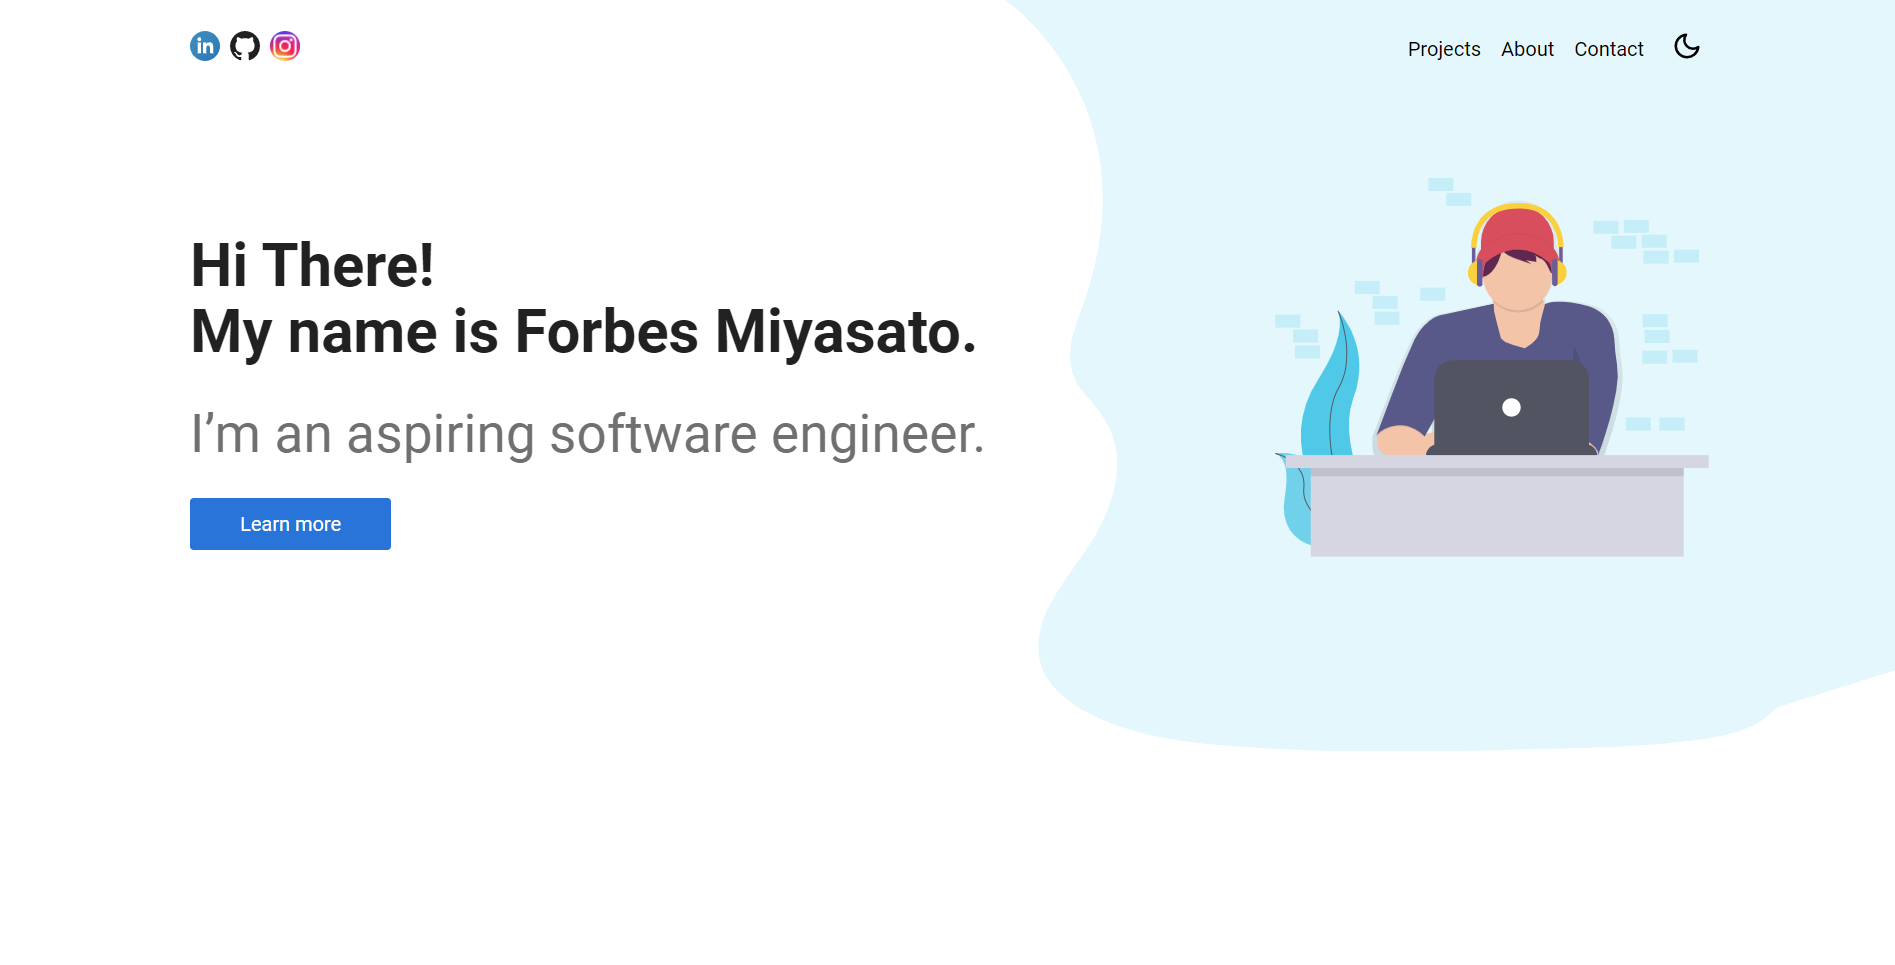
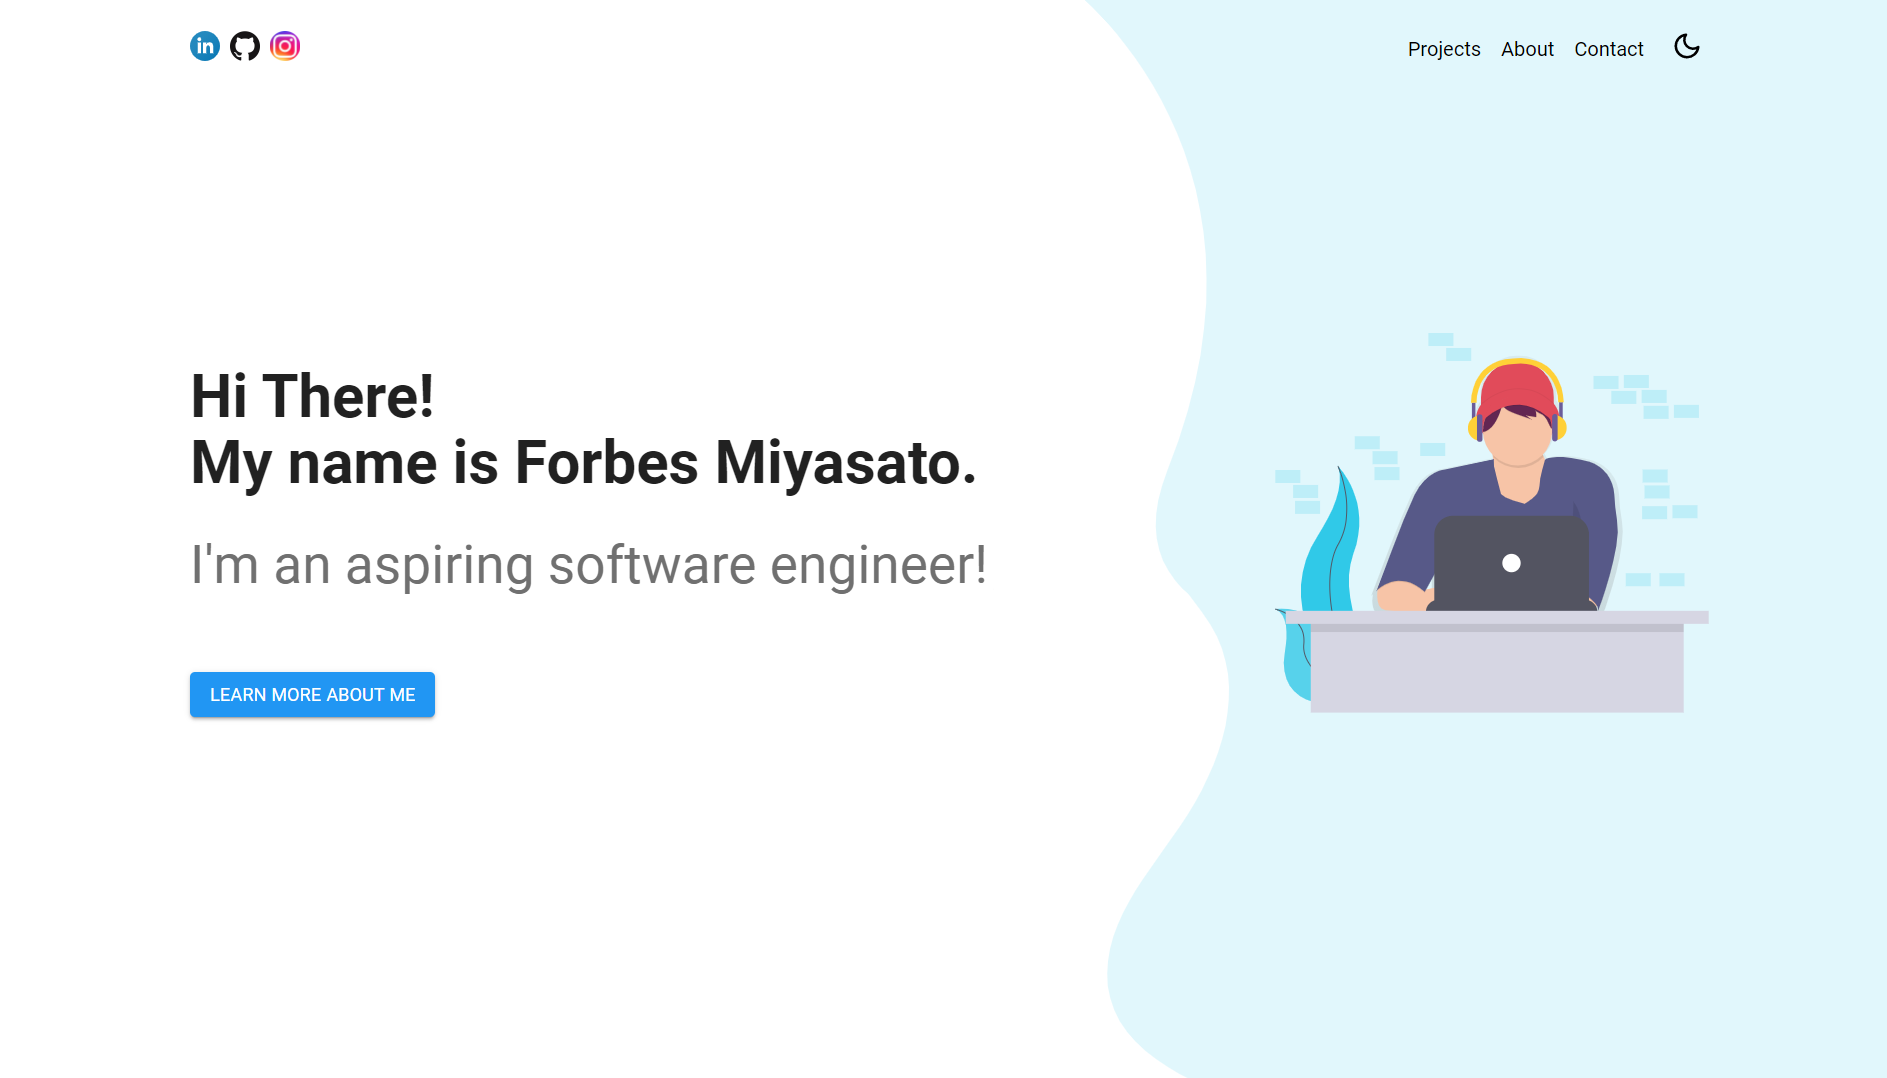
changed thumbnail and make small tweaks

diff --git a/src/components/landing/Contact/section.js b/src/components/landing/Contact/section.js
@@ -1,19 +1,14 @@
-import React, { useContext } from "react";
-import { Container } from "components/common";
-import contact from "assets/illustrations/contact.svg";
+import React, { useContext, useState } from "react";
 import { ThemeContext } from "providers/ThemeProvider";
-import { Wrapper, Details, Thumbnail } from "./styles";
 import { FontAwesomeIcon } from "@fortawesome/react-fontawesome";
 import { faEnvelope } from "@fortawesome/free-solid-svg-icons";
 import social from "../../social.json";
-import InsightFloatIn from "../../common/InsightFloatIn";
 import { Trail, animated } from "react-spring/renderprops";
 import VizSensor from "react-visibility-sensor";
-import GITSectionfrom from "./section";
-import "./contact.scss";
 
-export const Contact = () => {
+const GITSection = () => {
     const { theme } = useContext(ThemeContext);
+    const [open, set] = useState(false);
 
     const items = [
         <div className="contact-icon">
@@ -52,15 +47,33 @@ export const Contact = () => {
     ];
 
     return (
-        <InsightFloatIn topOffSet={200} translateY={50}>
-            <Wrapper as={Container} id="contact">
-                <Details className="contact-wrapper">
-                    <GITSectionfrom />
-                </Details>
-                <Thumbnail>
-                    <img src={contact} alt="Contact Forbes" />
-                </Thumbnail>
-            </Wrapper>
-        </InsightFloatIn>
+        <>
+            <VizSensor
+                onChange={(isVisible) => {
+                    if (isVisible) {
+                        set(true);
+                    }
+                }}
+            >
+                <h1>Let's get in touch</h1>
+            </VizSensor>
+            {open && (
+                <div className="contact-text-wrapper">
+                    <Trail
+                        config={{ delay: 300 }}
+                        items={items}
+                        keys={(item) => item.key}
+                        from={{ opacity: 0 }}
+                        to={{ opacity: 1, delay: 1000 }}
+                    >
+                        {(item) => (props) => (
+                            <animated.div style={props}>{item}</animated.div>
+                        )}
+                    </Trail>
+                </div>
+            )}
+        </>
     );
 };
+
+export default GITSection;

diff --git a/src/components/landing/Intro/index.jsx b/src/components/landing/Intro/index.jsx
@@ -31,7 +31,7 @@ export const Intro = () => {
                         <IntroText />
                         <LoopText />
                         <AnchorLink href="#projects">
-                            <animated.div style={button}>
+                            <animated.div className="learn-more-btn" style={button}>
                                 <Button variant="contained" color="primary">
                                     Learn More About Me
                                 </Button>

diff --git a/src/components/landing/Skills/techTooltip.js b/src/components/landing/Skills/techTooltip.js
@@ -10,7 +10,7 @@ const TechTooltip = (props) => {
         if (visible && props.parentVisible) {
             setTimeout(() => {
                 setShow(true);
-            }, 1000);
+            }, 500);
         }
     }, [visible, props.parentVisible]);
 

diff --git a/src/components/landing/Intro/index.scss b/src/components/landing/Intro/index.scss
@@ -1,3 +1,7 @@
 .loop-text {
     height: 70px;
 }
+
+.learn-more-btn {
+    display: inline-block;
+}
